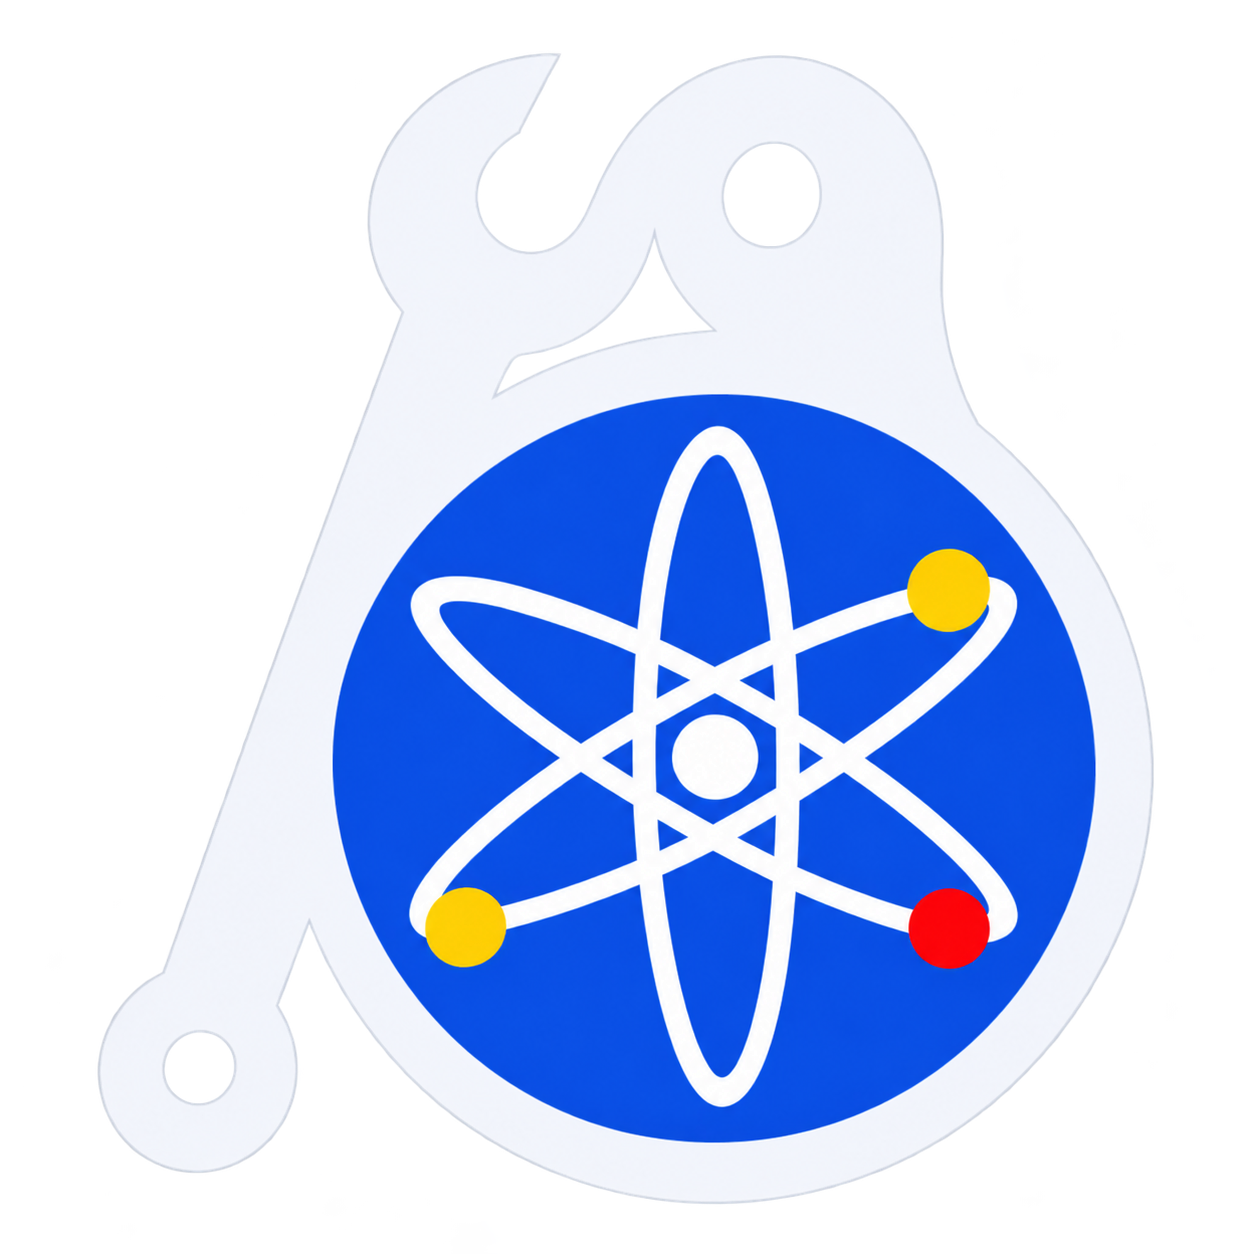
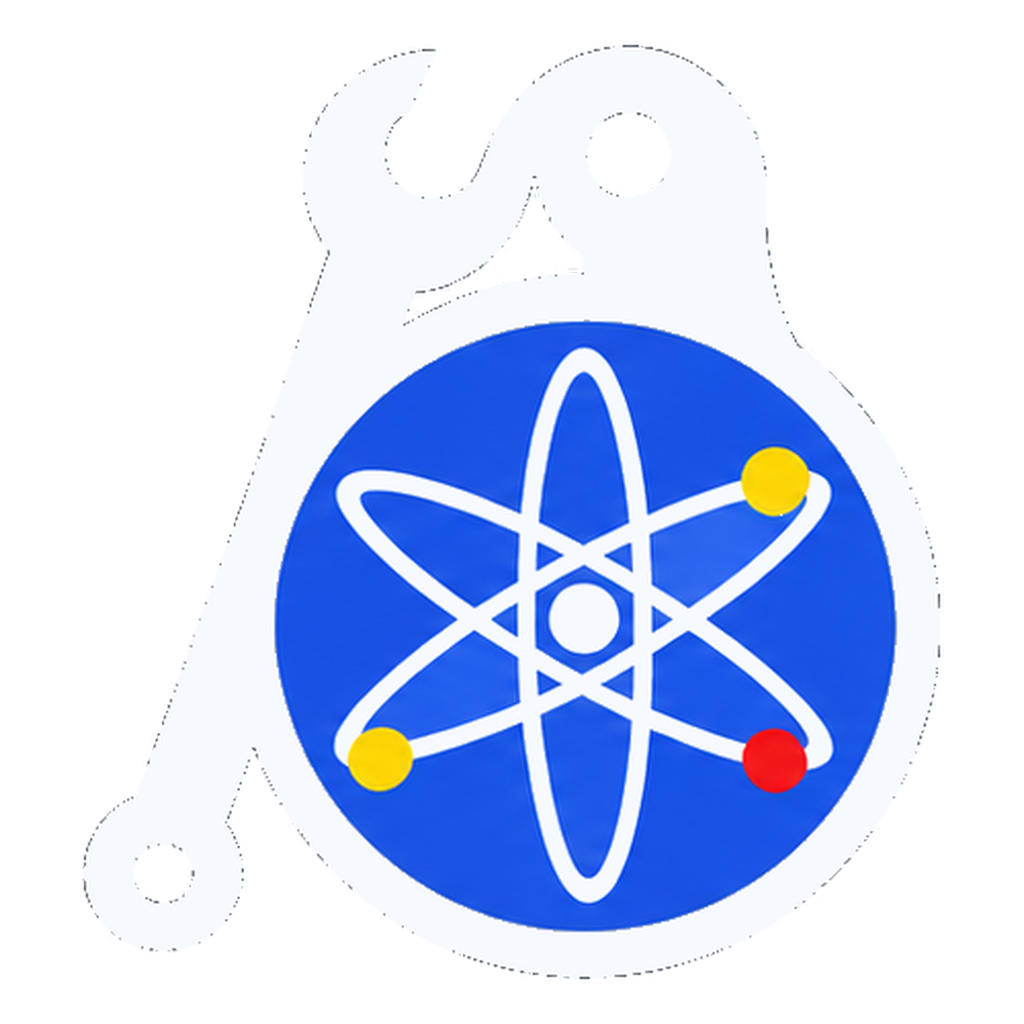
Release DMI Studio 1.0.2

diff --git a/CHANGELOG.md b/CHANGELOG.md
@@ -7,3 +7,7 @@
 # DMI Studio 1.0.1
 
 - Added logo and banner.
+
+# DMI Studio 1.0.2
+
+- Resized logo and banner.
